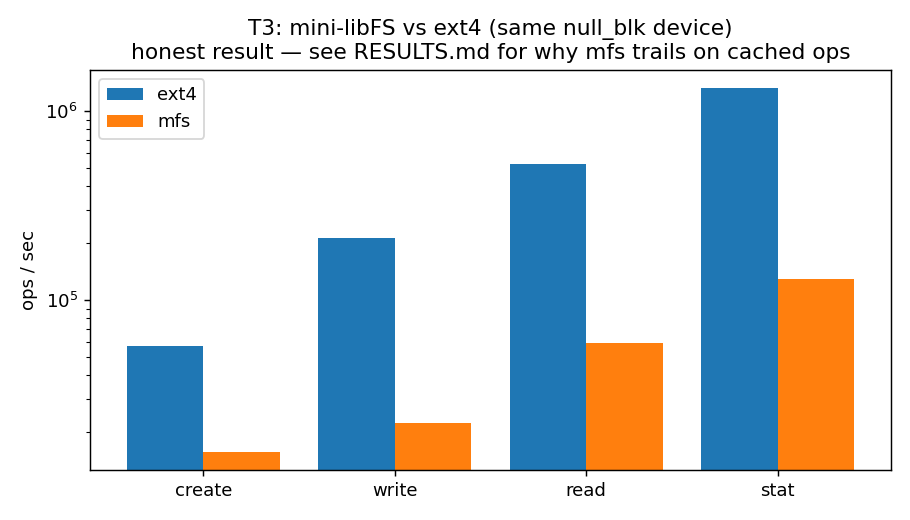
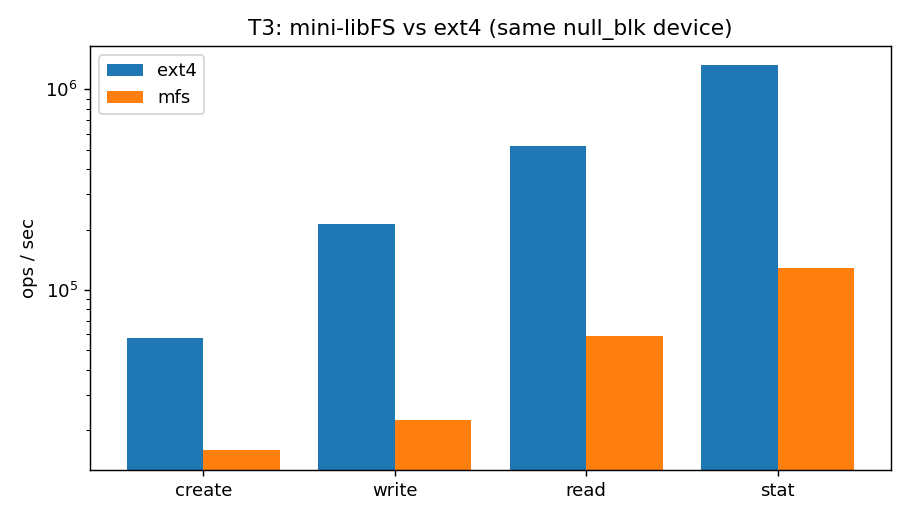
simplify T3/T3b figure titles

diff --git a/mini-aeolia/plot/plot_t3b.py b/mini-aeolia/plot/plot_t3b.py
@@ -27,8 +27,7 @@ def main():
         ax.bar(x + off, [data[t].get(o, 0) for o in ops], w, label=labels[t], color=colors[t])
     ax.set_xticks(x); ax.set_xticklabels(ops)
     ax.set_ylabel("ops / sec  (higher = faster)"); ax.set_yscale("log")
-    ax.set_title("T3b: the buffer cache makes mfs beat ext4 on create/read/stat\n"
-                 "(write still trails — mfs zeroes each new block before writing)")
+    ax.set_title("T3b: the buffer cache makes mfs beat ext4 on create/read/stat")
     ax.legend()
     fig.tight_layout()
     out = os.path.join(HERE, "results", "t3b_cache.png"); fig.savefig(out, dpi=130)

diff --git a/mini-aeolia/plot/plot_t3.py b/mini-aeolia/plot/plot_t3.py
@@ -21,8 +21,7 @@ def main():
         ax.bar(x + (i - (len(targets)-1)/2)*w, [data[t].get(o, 0) for o in ops], w, label=t)
     ax.set_xticks(x); ax.set_xticklabels(ops)
     ax.set_ylabel("ops / sec"); ax.set_yscale("log")
-    ax.set_title("T3: mini-libFS vs ext4 (same null_blk device)\n"
-                 "honest result — see RESULTS.md for why mfs trails on cached ops")
+    ax.set_title("T3: mini-libFS vs ext4 (same null_blk device)")
     ax.legend()
     fig.tight_layout()
     out = os.path.join(HERE, "results", "t3_fs_micro.png")
